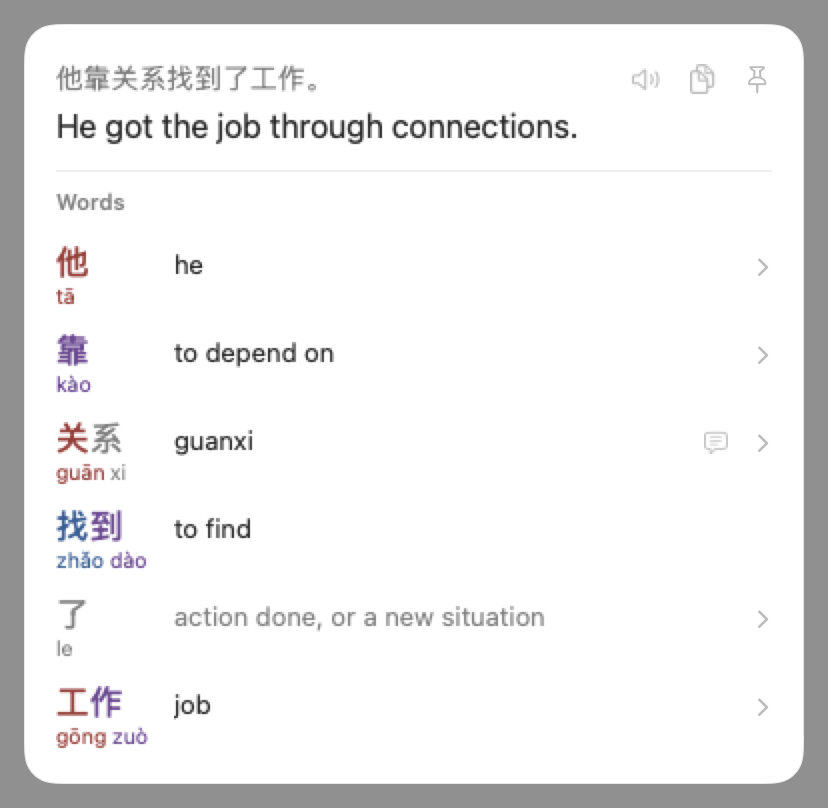
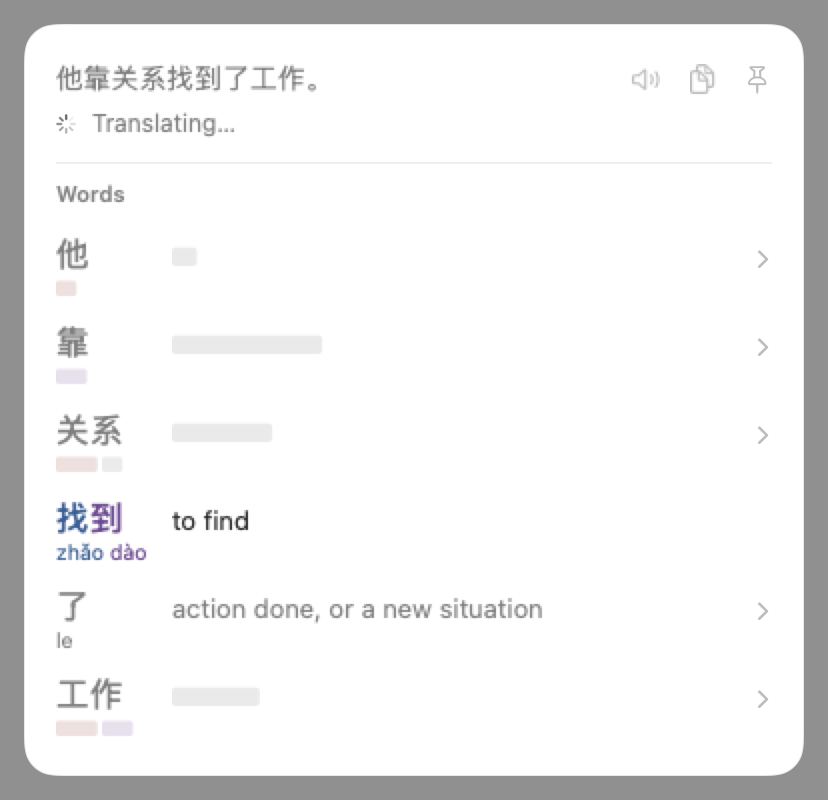
Card: drawn button symbols, placeholder bars, spoked spinner
Listen, Copy and Pin are paths now (pin.fill in the accent when pinned), with
colours that ease. Pending rows draw the Mac's redaction bars: one per pinyin
syllable in its tone's colour, one per gloss line. The spinner steps through
eight spokes. Mac references re-rendered for the state cases; the gallery
script builds each product on its own.

diff --git a/windows/LongyanReader/CardView.cs b/windows/LongyanReader/CardView.cs
@@ -190,7 +190,7 @@ sealed class CardView
             top.Children.Add(Keyed("translation", tb));
         }
         else if ((string?)c["translationError"] is string e) top.Children.Add(Keyed("translationError", Label(e, 11, Theme.Secondary, top: 4)));
-        else top.Children.Add(Keyed("translating", Busy("Translating…", top: 4)));
+        else top.Children.Add(Keyed("translating", Busy("Translating…", top: 4, height: Math.Round(16 * Theme.LineFactor) + 2)));
         content.Children.Add(Track("phraseTop", top));
 
         var rows = c["rows"]?.AsArray() ?? new JsonArray();
@@ -231,7 +231,7 @@ sealed class CardView
         b.Panel.Children.Add(hanzi);
         var py = Lines(new TextBlock { Margin = new Thickness(0, 1, 0, 0) }, 10.5);
         AddPinyin(py.Inlines, syllables, 10.5, " ");
-        b.Panel.Children.Add(pending ? Redacted(py) : py);
+        b.Panel.Children.Add(pending ? PinyinBars(syllables, py.Margin) : py);
         return b;
     }
 
@@ -255,7 +255,7 @@ sealed class CardView
         var gloss = Label(glossText, 13, dim ? Theme.Secondary : Theme.Primary);
         gloss.Margin = new Thickness(0, Baseline(Theme.Chinese, 17, FontWeights.Medium) - Baseline(Theme.Text, 13, FontWeights.Normal), 0, 0);
         if (!open) { gloss.MaxHeight = gloss.LineHeight * 2 + 1; gloss.TextTrimming = TextTrimming.CharacterEllipsis; }
-        FrameworkElement glossView = pending ? Redacted(gloss, 0.6) : Keyed("gloss:" + token, gloss, glossText, crossfade: true);
+        FrameworkElement glossView = pending ? new Bars(glossText, gloss.Margin) : Keyed("gloss:" + token, gloss, glossText, crossfade: true);
         Grid.SetColumn(glossView, 2);
         grid.Children.Add(glossView);
 
@@ -409,30 +409,46 @@ sealed class CardView
         return box;
     }
 
-    FrameworkElement Busy(string text, double top = 4)
+    /// A spinner and a line of status, `height` tall with both centred (the line's own height if 0).
+    FrameworkElement Busy(string text, double top = 4, double height = 0)
     {
         var line = new StackPanel { Orientation = Orientation.Horizontal, Margin = new Thickness(0, top, 0, 0) };
+        if (height > 0) line.Height = height;
         var spinner = Spinner();
         spinner.VerticalAlignment = VerticalAlignment.Center;
-        spinner.Margin = new Thickness(0, 1, 8, 0);
+        spinner.Margin = new Thickness(0, 0, 6, 0);
         line.Children.Add(spinner);
-        line.Children.Add(Label(text, 12, Theme.Secondary));
+        var label = Label(text, 12, Theme.Secondary);
+        label.VerticalAlignment = VerticalAlignment.Center;
+        line.Children.Add(label);
         return line;
     }
 
-    /// The Mac's mini spinner: a 10 px ring with a gap, turning.
+    /// The Mac's small spinner: eight spokes fading round, stepping an eighth of a turn at a time.
     static FrameworkElement Spinner()
     {
-        var arc = new Path
+        const double size = 11, inner = 2.4, outer = 5.0;
+        var canvas = new Canvas { Width = size, Height = size, RenderTransformOrigin = new Point(0.5, 0.5) };
+        var c = size / 2;
+        for (var k = 0; k < 8; k++)
         {
-            Data = Geometry.Parse("M 5,0.75 A 4.25,4.25 0 1 1 0.75,5"),
-            Stroke = Theme.Secondary, StrokeThickness = 1.5, StrokeStartLineCap = PenLineCap.Round, StrokeEndLineCap = PenLineCap.Round,
-            Width = 10, Height = 10, RenderTransformOrigin = new Point(0.5, 0.5),
-        };
+            var a = -Math.PI / 2 - k * Math.PI / 4;   // the brightest spoke on top, fading anticlockwise
+            canvas.Children.Add(new Line
+            {
+                X1 = c + inner * Math.Cos(a), Y1 = c + inner * Math.Sin(a), X2 = c + outer * Math.Cos(a), Y2 = c + outer * Math.Sin(a),
+                Stroke = Theme.Secondary, StrokeThickness = 1.3, StrokeStartLineCap = PenLineCap.Round, StrokeEndLineCap = PenLineCap.Round,
+                Opacity = 1 - k * 0.1,
+            });
+        }
         var spin = new RotateTransform();
-        arc.RenderTransform = spin;
-        spin.BeginAnimation(RotateTransform.AngleProperty, new DoubleAnimation(0, 360, new Duration(TimeSpan.FromSeconds(0.9))) { RepeatBehavior = RepeatBehavior.Forever });
-        return arc;
+        canvas.RenderTransform = spin;
+        if (!Motion.Reduced)
+        {
+            var steps = new DoubleAnimationUsingKeyFrames { Duration = new Duration(TimeSpan.FromSeconds(0.8)), RepeatBehavior = RepeatBehavior.Forever };
+            for (var k = 0; k < 8; k++) steps.KeyFrames.Add(new DiscreteDoubleKeyFrame(k * 45, KeyTime.FromTimeSpan(TimeSpan.FromSeconds(k * 0.1))));
+            spin.BeginAnimation(RotateTransform.AngleProperty, steps);
+        }
+        return canvas;
     }
 
     static FrameworkElement Divider() => new Border { Height = 1, Background = Theme.Divider };
@@ -488,23 +504,55 @@ sealed class CardView
 
     // MARK: Buttons
 
-    readonly List<TextBlock> glyphs = new();
+    /// A button's symbol: SF Symbols' speaker.wave.2, doc.on.doc, pin and pin.fill drawn as
+    /// paths, in a brush whose colour animates.
+    sealed class Symbol
+    {
+        public readonly Path Path;
+        public readonly SolidColorBrush Ink;
+        public readonly bool Tinted;
+        public Symbol(string data, bool filled, Color color, bool tinted)
+        {
+            Ink = new SolidColorBrush(color);
+            Tinted = tinted;
+            Path = new Path
+            {
+                Data = Geometry.Parse(data), Stroke = Ink, StrokeThickness = 1.15, Fill = filled ? Ink : null,
+                StrokeStartLineCap = PenLineCap.Round, StrokeEndLineCap = PenLineCap.Round, StrokeLineJoin = PenLineJoin.Round,
+                Width = 14, Height = 14, HorizontalAlignment = HorizontalAlignment.Center, VerticalAlignment = VerticalAlignment.Center,
+            };
+        }
+        public void To(Brush target, double seconds)
+        {
+            var c = ((SolidColorBrush)target).Color;
+            Ink.BeginAnimation(SolidColorBrush.ColorProperty, new ColorAnimation(c, new Duration(TimeSpan.FromSeconds(seconds))) { EasingFunction = Motion.EaseOut });
+        }
+    }
+
+    const string Speaker = "M 1.6,5.2 H 3.9 L 6.9,2.6 V 11.4 L 3.9,8.8 H 1.6 Z M 9,5 A 2.6,2.6 0 0 1 9,9 M 10.9,3.3 A 5,5 0 0 1 10.9,10.7";
+    const string Copy = "M 3,9.6 V 3 A 1.2,1.2 0 0 1 4.2,1.8 H 8.8 M 6.2,4.4 H 10.6 A 1.2,1.2 0 0 1 11.8,5.6 V 11.6 A 1.2,1.2 0 0 1 10.6,12.8 H 6.2 A 1.2,1.2 0 0 1 5,11.6 V 5.6 A 1.2,1.2 0 0 1 6.2,4.4 Z";
+    const string Pin = "M 4.4,1.6 H 9.6 M 5.3,1.6 V 5.6 L 3.4,8.4 H 10.6 L 8.7,5.6 V 1.6 M 7,8.4 V 12.8";
+    const string PinFill = "M 4.6,1.2 H 9.4 A 0.6,0.6 0 0 1 9.4,2.4 H 8.8 V 5.5 L 10.8,8.3 A 0.4,0.4 0 0 1 10.5,8.9 H 3.5 A 0.4,0.4 0 0 1 3.2,8.3 L 5.2,5.5 V 2.4 H 4.6 A 0.6,0.6 0 0 1 4.6,1.2 Z M 7,8.9 V 12.8";
+    const string Check = "M 3,7.4 L 5.9,10.2 L 11.2,3.6";
+
+    readonly List<Symbol> symbols = new();
 
     /// The Listen, Copy and Pin buttons; returns the width their slot takes on the first line.
     double AddButtons(string copy, string speech)
     {
-        glyphs.Clear();
+        symbols.Clear();
         var n = 0;
-        if (actions.CanListen) { buttons.Children.Add(ActionButton("", $"Listen to “{speech}”", () => actions.Listen(speech))); n++; }
+        if (actions.CanListen) { buttons.Children.Add(ActionButton(new Symbol(Speaker, false, Rest, false), $"Listen to “{speech}”", _ => actions.Listen(speech))); n++; }
         buttons.Children.Add(CopyButton(copy)); n++;
-        var pin = ActionButton(actions.Pinned ? "\uE842" : "\uE840", actions.Pinned ? "Unpin: close when you click elsewhere" : "Pin: keep the card here for every lookup",
-            () => actions.TogglePin(), tint: actions.Pinned);
-        pin.Child.RenderTransform = new RotateTransform(-45);   // Segoe's pin leans; the Mac's stands
-        buttons.Children.Add(pin); n++;
+        var pin = actions.Pinned ? new Symbol(PinFill, true, ((SolidColorBrush)Theme.Accent).Color, true) : new Symbol(Pin, false, Rest, false);
+        buttons.Children.Add(ActionButton(pin, actions.Pinned ? "Unpin: close when you click elsewhere" : "Pin: keep the card here for every lookup", _ => actions.TogglePin())); n++;
         buttons.Margin = new Thickness(0, 0, Pad * Zoom - 6 - ButtonGap / 2, 0);
         // The slot they take on the first line, in the content's own (unzoomed) units.
         return (n * ButtonW + (n - 1) * ButtonGap - 6) / Zoom;
     }
+
+    /// A symbol's colour at rest: tertiary, secondary while the pointer is on the card.
+    Color Rest => ((SolidColorBrush)(hovered ? Theme.Secondary : Theme.Tertiary)).Color;
 
     /// The buttons' centre sits `above` over the first line's baseline.
     void PlaceButtons(FrameworkElement firstLine, double size, FontFamily family, FontWeight weight, double above)
@@ -515,41 +563,65 @@ sealed class CardView
 
     FrameworkElement CopyButton(string text)
     {
+        var label = text.Length > 14 ? text[..13] + "…" : text;
+        var symbol = new Symbol(Copy, false, Rest, false);
         Border? button = null;
-        button = ActionButton("", $"Copy “{(text.Length > 14 ? text[..13] + "…" : text)}”", () =>
+        button = ActionButton(symbol, $"Copy “{label}”", b =>
         {
             actions.Copy(text);
-            var glyph = (TextBlock)button!.Child;
-            glyph.Text = "";
-            glyph.Foreground = Theme.Accent;
-            button.ToolTip = "Copied";
+            // A checkmark in the accent for 1.5 s.
+            symbol.Path.Data = Geometry.Parse(Check);
+            symbol.Path.StrokeThickness = 1.6;
+            symbol.Ink.BeginAnimation(SolidColorBrush.ColorProperty, null);
+            symbol.Ink.Color = ((SolidColorBrush)Theme.Accent).Color;
+            symbols.Remove(symbol);
+            b.ToolTip = "Copied";
             var t = new System.Windows.Threading.DispatcherTimer { Interval = TimeSpan.FromSeconds(1.5) };
-            t.Tick += (_, _) => { t.Stop(); glyph.Text = ""; glyph.Foreground = hovered ? Theme.Secondary : Theme.Tertiary; button.ToolTip = $"Copy “{text}”"; };
+            t.Tick += (_, _) =>
+            {
+                t.Stop();
+                symbol.Path.Data = Geometry.Parse(Copy);
+                symbol.Path.StrokeThickness = 1.15;
+                symbol.Ink.Color = b.IsMouseOver ? ((SolidColorBrush)Theme.Primary).Color : Rest;
+                symbols.Add(symbol);
+                b.ToolTip = $"Copy “{label}”";
+            };
             t.Start();
         });
         return button;
     }
 
-    Border ActionButton(string glyph, string help, Action act, bool tint = false)
+    Border ActionButton(Symbol symbol, string help, Action<Border> act)
     {
-        var symbol = Icon(glyph, 12, tint ? Theme.Accent : hovered ? Theme.Secondary : Theme.Tertiary);
-        symbol.HorizontalAlignment = HorizontalAlignment.Center;
-        symbol.VerticalAlignment = VerticalAlignment.Center;
-        symbol.Tag = tint;
-        if (!tint) glyphs.Add(symbol);
+        if (!symbol.Tinted) symbols.Add(symbol);
         var fill = new SolidColorBrush(((SolidColorBrush)Theme.Ink(1)).Color) { Opacity = 0 };
-        var b = new Border { Width = ButtonW, Height = ButtonH, CornerRadius = new CornerRadius(6), Background = fill, Child = symbol, ToolTip = help, Margin = new Thickness(ButtonGap / 2, 0, ButtonGap / 2, 0) };
-        b.MouseEnter += (_, _) => { Motion.To(fill, Brush.OpacityProperty, 0.07, 0.15); if (!tint) symbol.Foreground = Theme.Primary; };
-        b.MouseLeave += (_, _) => { Motion.To(fill, Brush.OpacityProperty, 0, 0.15); b.Opacity = 1; if (!tint) symbol.Foreground = hovered ? Theme.Secondary : Theme.Tertiary; };
-        b.MouseLeftButtonDown += (_, e) => { Motion.To(b, UIElement.OpacityProperty, 0.55, 0.08); e.Handled = true; };
-        b.MouseLeftButtonUp += (_, e) => { Motion.To(b, UIElement.OpacityProperty, 1, 0.08); act(); e.Handled = true; };
+        var b = new Border { Width = ButtonW, Height = ButtonH, CornerRadius = new CornerRadius(6), Background = fill, Child = symbol.Path, ToolTip = help, Margin = new Thickness(ButtonGap / 2, 0, ButtonGap / 2, 0) };
+        var pressed = false;
+        b.MouseEnter += (_, _) => { Motion.To(fill, Brush.OpacityProperty, 0.07, 0.15); if (symbols.Contains(symbol)) symbol.To(Theme.Primary, 0.15); };
+        b.MouseLeave += (_, _) =>
+        {
+            pressed = false;
+            Motion.To(fill, Brush.OpacityProperty, 0, 0.15);
+            Motion.To(b, UIElement.OpacityProperty, 1, 0.08);
+            if (symbols.Contains(symbol)) symbol.To(hovered ? Theme.Secondary : Theme.Tertiary, 0.15);
+        };
+        b.MouseLeftButtonDown += (_, e) => { pressed = true; Motion.To(b, UIElement.OpacityProperty, 0.55, 0.08); e.Handled = true; };
+        b.MouseLeftButtonUp += (_, e) =>
+        {
+            e.Handled = true;
+            Motion.To(b, UIElement.OpacityProperty, 1, 0.08);
+            if (!pressed || CardWindow.WasDrag) return;
+            pressed = false;
+            act(b);
+        };
         return b;
     }
 
-    /// The buttons brighten while the pointer is anywhere on the card.
+    /// The symbols brighten while the pointer is anywhere on the card (ease-out 0.2 s).
     void Recolor()
     {
-        foreach (var g in glyphs) if (!g.IsMouseOver && g.Text != "") g.Foreground = hovered ? Theme.Secondary : Theme.Tertiary;
+        foreach (var s in symbols)
+            if (!((FrameworkElement)s.Path.Parent).IsMouseOver) s.To(hovered ? Theme.Secondary : Theme.Tertiary, 0.2);
     }
 
     // MARK: Text
@@ -594,12 +666,71 @@ sealed class CardView
         }
     }
 
-    /// Text drawn as a grey bar of its size, as SwiftUI's placeholder redaction does.
-    static FrameworkElement Redacted(TextBlock text, double opacity = 1)
+    /// A pending word's pinyin as SwiftUI's placeholder redaction draws it: a bar per syllable,
+    /// 9 tall in the 13 line, in the tone's colour faintly (the neutral tone in grey).
+    static FrameworkElement PinyinBars(JsonArray syllables, Thickness margin)
     {
-        foreach (var run in text.Inlines.OfType<Run>()) run.Foreground = Brushes.Transparent;
-        text.Foreground = Brushes.Transparent;
-        return new Border { Background = Theme.Placeholder, CornerRadius = new CornerRadius(3), Child = text, HorizontalAlignment = HorizontalAlignment.Left, Opacity = opacity, Margin = text.Margin };
+        var line = new StackPanel { Orientation = Orientation.Horizontal, Height = Math.Round(10.5 * Theme.LineFactor), Margin = margin, HorizontalAlignment = HorizontalAlignment.Left };
+        for (var i = 0; i < syllables.Count; i++)
+        {
+            var s = syllables[i] as JsonObject;
+            var tone = (int?)s?["tone"] ?? 5;
+            var color = tone is >= 1 and <= 4 ? ((SolidColorBrush)Theme.PinyinColor(tone)).Color : ((SolidColorBrush)Theme.Ink(1)).Color;
+            var bar = new Border
+            {
+                Width = Math.Ceiling(TextWidth((string?)s?["text"] ?? "", Theme.Text, 10.5)), Height = 9, CornerRadius = new CornerRadius(2.5),
+                Background = new SolidColorBrush(Color.FromArgb((byte)Math.Round((tone is >= 1 and <= 4 ? 0.19 : 0.08) * 255), color.R, color.G, color.B)),
+                VerticalAlignment = VerticalAlignment.Center, Margin = new Thickness(i > 0 ? 2 : 0, 0, 0, 0),
+            };
+            line.Children.Add(bar);
+        }
+        return line;
+    }
+
+    static double TextWidth(string text, FontFamily family, double size) =>
+        new FormattedText(text, CultureInfo.InvariantCulture, FlowDirection.LeftToRight, new Typeface(family, FontStyles.Normal, FontWeights.Normal, FontStretches.Normal), size, Brushes.Black, 1.0).WidthIncludingTrailingWhitespace;
+
+    /// A pending gloss as redaction draws it: a bar per line the text would wrap to (two at
+    /// most), as wide as that line, 11 tall in the 16 line.
+    sealed class Bars : FrameworkElement
+    {
+        const double Size = 13, Bar = 11;
+        readonly string[] words;
+        List<double> widths = new();
+        static double LineH => Math.Round(Size * Theme.LineFactor);
+        public Bars(string text, Thickness margin)
+        {
+            words = text.Split(' ', StringSplitOptions.RemoveEmptyEntries);
+            Margin = margin;
+            HorizontalAlignment = HorizontalAlignment.Left;
+            VerticalAlignment = VerticalAlignment.Top;
+        }
+        protected override Size MeasureOverride(Size available)
+        {
+            widths = new List<double>();
+            var space = TextWidth(" ", Theme.Text, Size);
+            double line = 0;
+            foreach (var w in words)
+            {
+                var ww = TextWidth(w, Theme.Text, Size);
+                if (line > 0 && line + space + ww > available.Width)
+                {
+                    widths.Add(line);
+                    if (widths.Count == 2) break;
+                    line = ww;
+                }
+                else line = line > 0 ? line + space + ww : ww;
+            }
+            if (widths.Count < 2 && line > 0) widths.Add(Math.Min(line, available.Width));
+            if (widths.Count == 0) widths.Add(40);
+            return new Size(Math.Ceiling(widths.Max()), LineH * widths.Count);
+        }
+        protected override void OnRender(DrawingContext dc)
+        {
+            var fill = Theme.Ink(0.082);
+            for (var i = 0; i < widths.Count; i++)
+                dc.DrawRoundedRectangle(fill, null, new Rect(0, i * LineH + (LineH - Bar) / 2, Math.Ceiling(widths[i]), Bar), 2.5, 2.5);
+        }
     }
 
     static readonly Dictionary<(string, double, int), double> baselines = new();
